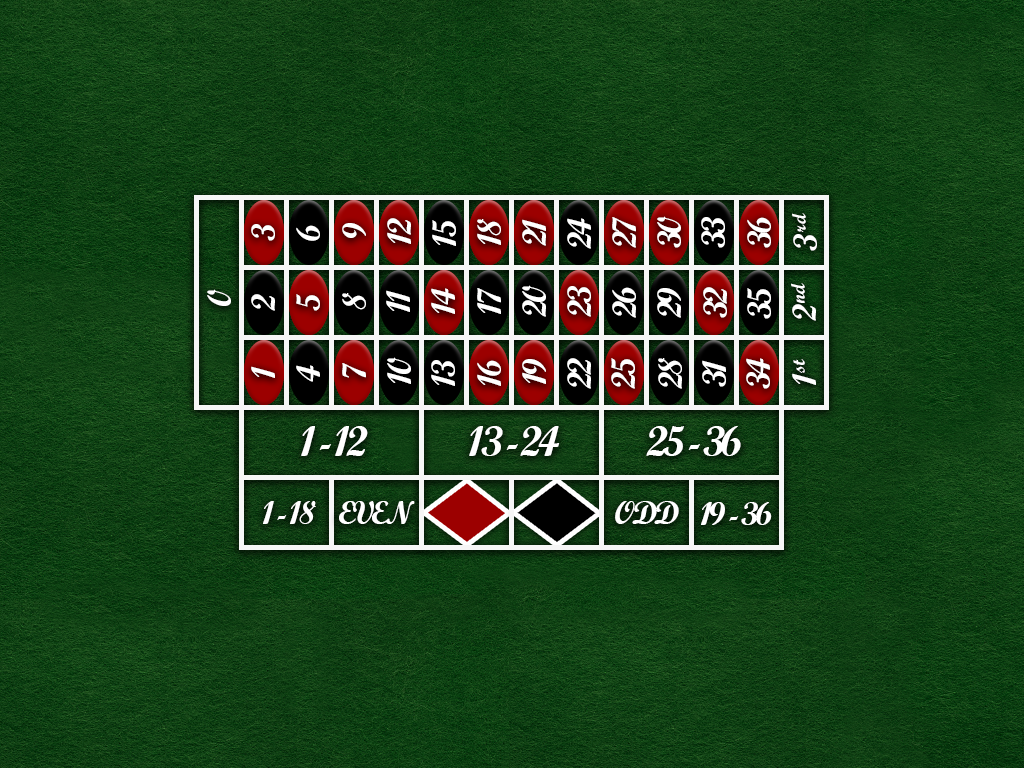
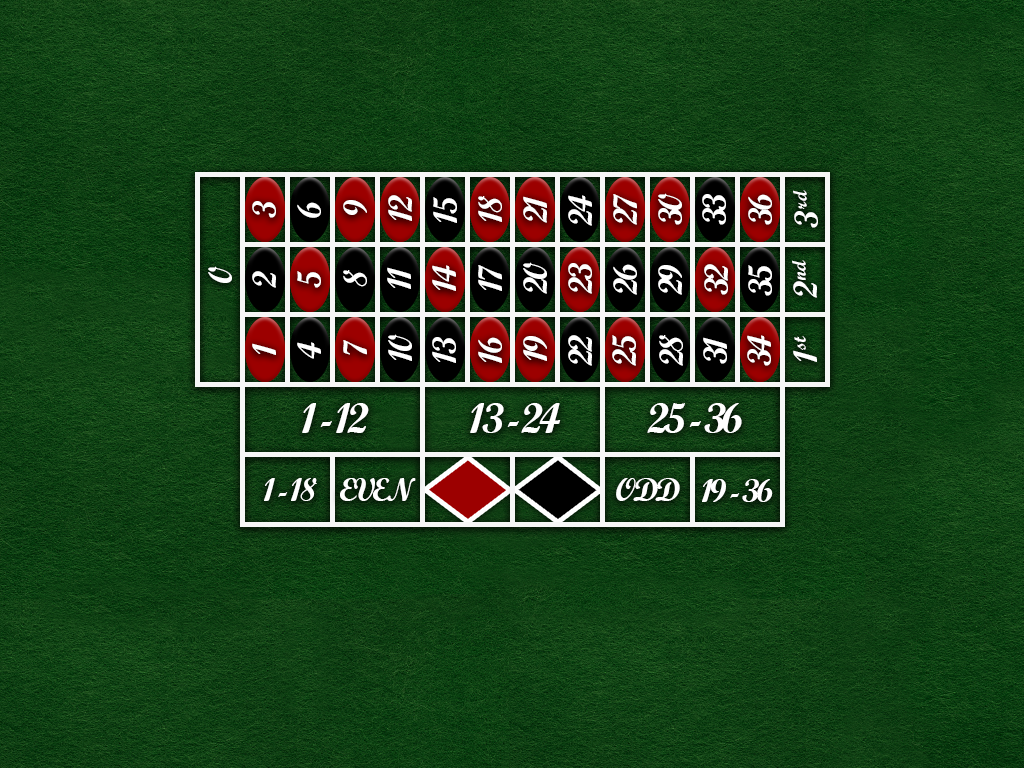
Created all the buttons for the board
I stored all the buttons in a array of buttons called buttons.
I also created a function called setButtons that takes in the button array and create and puts all the button in the correct locations. We just need to add the action listeners to the buttons.
I also did a small update to the board.png

Changed region(s): [[0.1875, 0.2188, 0.8125, 0.7188]]

diff --git a/RouletteGUI.java b/RouletteGUI.java
@@ -103,10 +103,58 @@ public class RouletteGUI implements ActionListener
                           customPanel.getPreferredSize().height);
     layeredPane.add(customPanel, Integer.valueOf(3));
 
+
+    JButton[] buttons = new JButton[49];  // Array to store all the buttons
+    setButtons(buttons);  // Calls the set button function
+    
+    for(int i = 0; i < 49; i++) // Makes the buttons transparent and adds them to the layered pane
+    {
+      buttons[i].setOpaque(false);
+      buttons[i].setContentAreaFilled(false);
+      buttons[i].setBorderPainted(false);
+      layeredPane.add(buttons[i], Integer.valueOf(4));
+    }
+
     // Adds the layered pane to the content pane.
     contentPane.add(layeredPane);
 
     return contentPane;
+  }
+
+  public void setButtons(JButton []buttons) // Creates all the board buttons
+  {
+    for(int i = 0; i < 49; i++) // Creates all the buttons
+    {
+      buttons[i] = new JButton("");
+    }
+
+    buttons[0].setBounds(200,177,40,205);  // Creates the 0 Button
+    int xpos = 245;
+    int buttonNum = 1;
+    for(int i = 0; i < 13; i++) // Creates the 1 - 36, 1st, 2nd, and 3rd buttons
+    {
+      buttons[buttonNum].setBounds(xpos, 317, 40, 65);
+      buttonNum++;
+      buttons[buttonNum].setBounds(xpos,247,40,65);
+      buttonNum++;
+      buttons[buttonNum].setBounds(xpos,177,40,65);
+      buttonNum++;
+      xpos += 45;
+    }
+
+    xpos = 245; // Creates the dozen buttons
+    for(int i = 40; i < 43; i++)
+    {
+      buttons[i].setBounds(xpos,387,175,65);
+      xpos += 180;
+    }
+
+    xpos = 245; // Creates the bottom buttons
+    for(int i = 43; i < 49; i++)
+    {
+      buttons[i].setBounds(xpos,457,85,65);
+      xpos += 90;
+    }
   }
 
   /**
